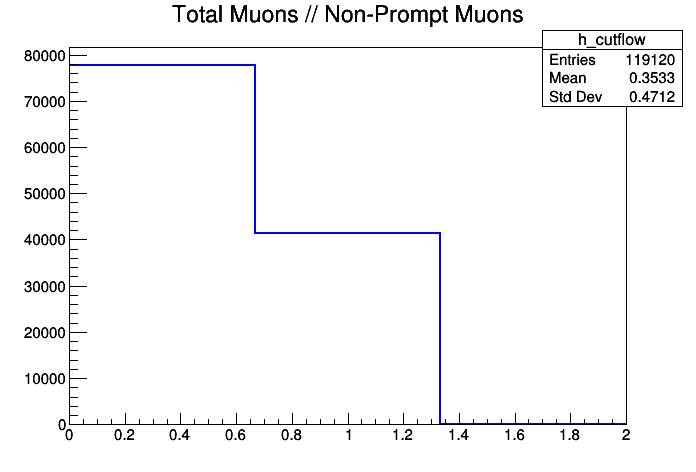
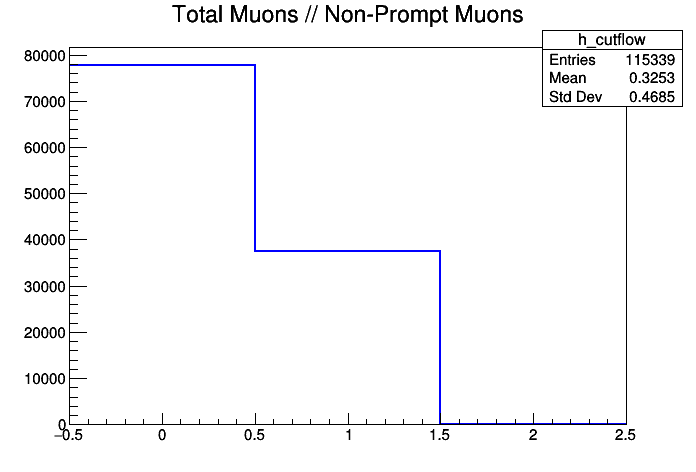
Now only remove A->mu-mu muons, not events

diff --git a/snek.py b/snek.py
@@ -87,7 +87,7 @@ def main(batch=0):
         "h_mu_pt": histo('h_mu_pt', 'Muon pT;pT (GeV);Events', mu_pt_bins),
         "h_mu_pt_eta": histo('h_mu_pt_eta', 'Muon pT (|eta| < 1.5);pT (GeV);Events', mu_pt_bins),
         "h_met": histo('h_met', 'MET;Missing Transverse Energy (Gev);Events; ', [200,0,200]),
-        "h_cutflow": histo('h_cutflow', 'Total Muons // Non-Prompt Muons', [3,0,2])
+        "h_cutflow": histo('h_cutflow', 'Total Muons // Non-Prompt Muons', [3,-0.5,2.5])
     }
 
 #############
@@ -157,7 +157,7 @@ def main(batch=0):
                         muPt.append(ch.GenPart_pt[iGen])            ## Store its eta, phi, and pT
 
             ## Loop over RECO muons
-            hasWZAmuon = False
+            goodMu = []
             for iMu in range(nMuons):
 
                 ## Get variable quantities out of the tree
@@ -180,10 +180,11 @@ def main(batch=0):
                     if (abs(mu_eta - muEta[i]) < 0.1
                         ) and (abs(mu_pt - muPt[i]) < muPt[i]*.2
                         ) and ((abs(mu_phi - muPhi[i]) < 0.1) or (abs(mu_phi - muPhi[i] > 6.23))):
-                        hasWZAmuon = True
-                        break                       ## If our muon matches, we're done here
+                        continue            ## This muon comes from something we're not interested in
+                    else:
+                       goodMu.append(iMu)   ## This muon could have come from an A->bb decay. We'll save it
 
-            if not hasWZAmuon:
+            if len(goodMu) > 0:             ## We have useful muons in this event
                 plots["h_cutflow"].cfill(1) 
 
             ## End loop over RECO muons pairs (iMu)
